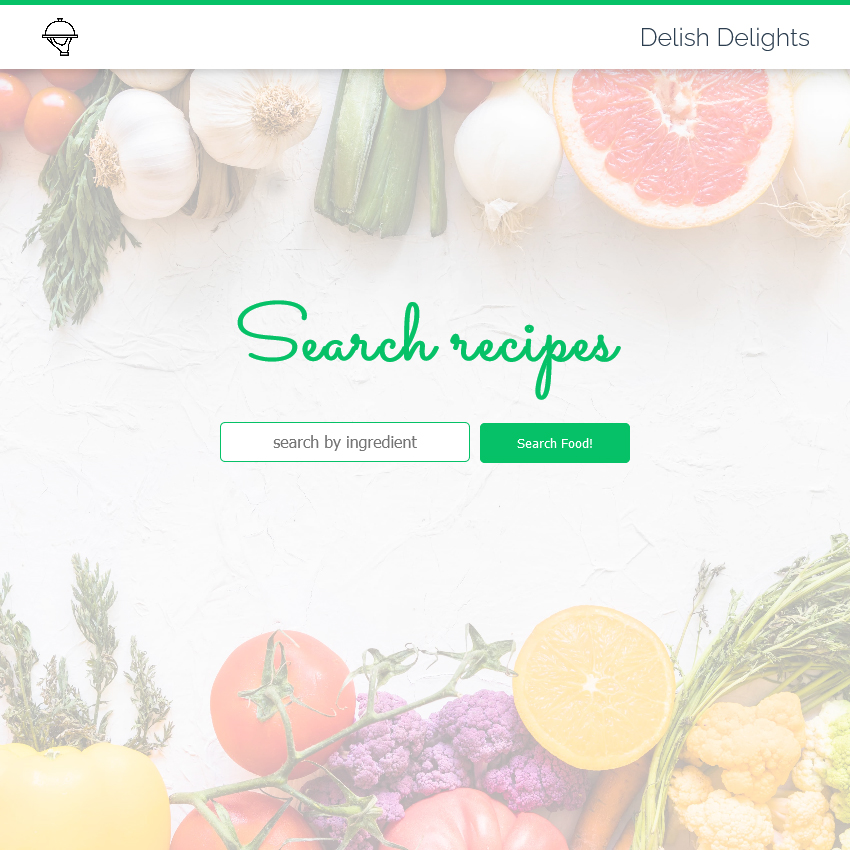
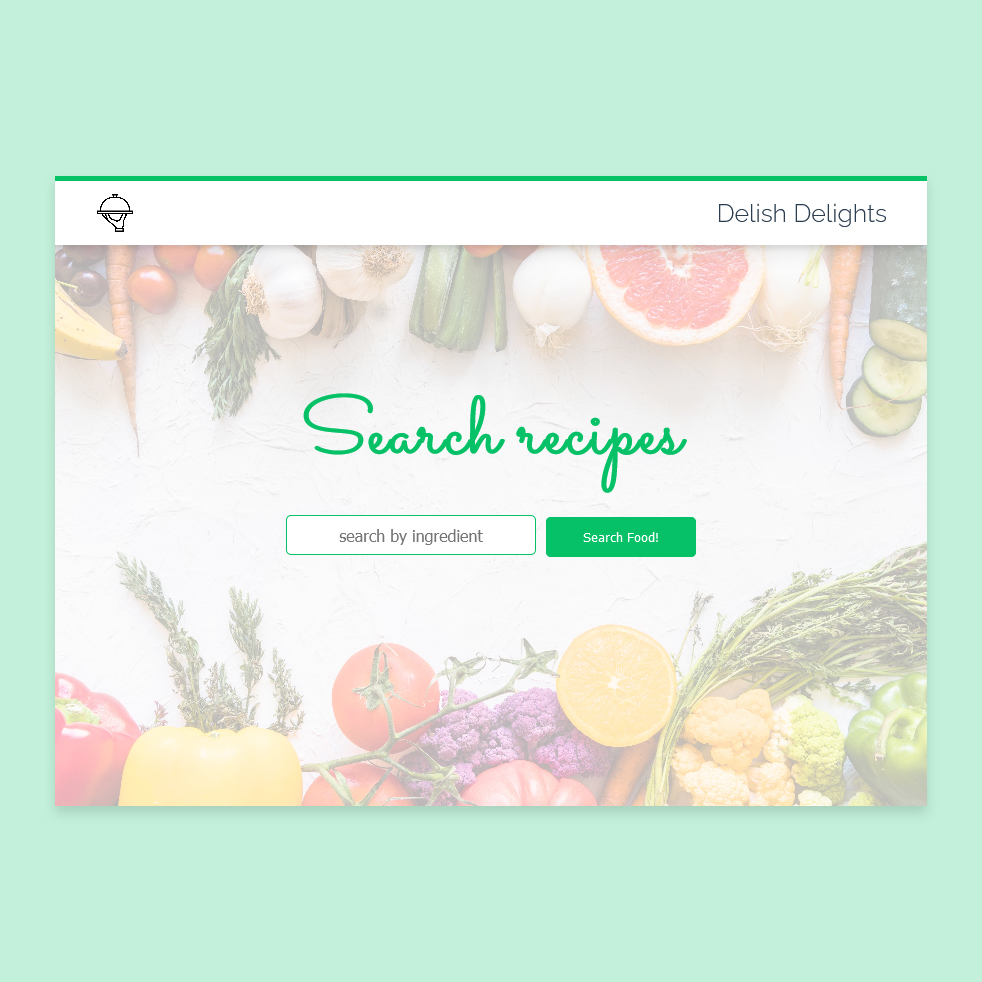
added new images to home page grid, some styling

diff --git a/pages/projects/[id].js b/pages/projects/[id].js
@@ -21,19 +21,23 @@ export const getStaticPaths = async () => {
 
 export default ({ project }) => (
   <div>
-    <h2>{project.name}</h2>
-    <p>{project.description}</p>
-    <div>
-      <Link href={project.linkLive} passHref>
-        <a target="_blank" rel="noreferrer">
-          {project.linkName}
-        </a>
-      </Link>
-      <Link href={project.linkGit} passHref>
-        <a target="_blank" rel="noreferrer">
-          Git
-        </a>
-      </Link>
+    <div className="project-header">
+      <div className="project-description">
+        <h2>{project.name}</h2>
+        <p>{project.description}</p>
+      </div>
+      <div className="project-links">
+        <Link href={project.linkLive} passHref>
+          <a target="_blank" rel="noreferrer">
+            {project.linkName}
+          </a>
+        </Link>
+        <Link href={project.linkGit} passHref>
+          <a target="_blank" rel="noreferrer">
+            Git
+          </a>
+        </Link>
+      </div>
     </div>
 
     <div className="pics">
@@ -45,32 +49,31 @@ export default ({ project }) => (
         src={project.mainImage}
       />
 
-        {project.detailImage.map((detailUrl) => {
-          return (
-            <>
-              <div key={detailUrl}>
-                <Image
-                  layout="responsive"
-                  objectFit="contain"
-                  width={300}
-                  height={300}
-                  alt="yes"
-                  src={detailUrl}
-                />
-              </div>
-            </>
-          );
-        })}
+      {project.detailImage.map((detailUrl) => {
+        return (
+          <>
+            <div key={detailUrl}>
+              <Image
+                layout="responsive"
+                objectFit="contain"
+                width={300}
+                height={300}
+                alt="yes"
+                src={detailUrl}
+              />
+            </div>
+          </>
+        );
+      })}
     </div>
 
-    <Link href="/" passHref>
-      <button>Back</button>
-    </Link>
-    <Link href={`/projects/[id]`} as={`/projects/${project.id - 1}`} passHref>
-      <button>{project.id > 1 ? "Previous" : ""}</button>
-    </Link>
-    <Link href={`/projects/[id]`} as={`/projects/${project.id + 1}`} passHref>
-      <button>{project.id < 8 ? "Next" : ""}</button>
-    </Link>
+    <div className="project-navbuttons">
+      <Link href={`/projects/[id]`} as={`/projects/${project.id - 1}`} passHref>
+        <button>{project.id > 1 ? "Previous" : ""}</button>
+      </Link>
+      <Link href={`/projects/[id]`} as={`/projects/${project.id + 1}`} passHref>
+        <button>{project.id < 8 ? "Next" : ""}</button>
+      </Link>
+    </div>
   </div>
 );

diff --git a/data.js b/data.js
@@ -29,8 +29,8 @@ export const projects = [
     linkLive: "https://react-to-do-app-mick.netlify.app/",
     linkName: "Live",
     linkGit: "https://github.com/MickDellaert/react-intro",
-    mainImage: "/Todo/todo-1.png",
-    detailImage: ["/Todo/todo-1.png"],
+    mainImage: "/Todo/todo-1.jpg",
+    detailImage: ["/Todo/todo-1.jpg"],
   },
   {
     id: 4,
@@ -40,7 +40,7 @@ export const projects = [
     linkLive: "https://delish-delights.netlify.app/",
     linkName: "Live",
     linkGit: "https://github.com/MickDellaert/vue-api",
-    mainImage: "/Delish/Delish-1.jpg",
+    mainImage: "/Delish/Delish-2.jpg",
     detailImage: ["/Delish/Delish-1.jpg"],
   },
   {
@@ -51,7 +51,7 @@ export const projects = [
     linkLive: "https://weather-app-mick.netlify.app/",
     linkName: "Live",
     linkGit: "https://github.com/MickDellaert/weather-app",
-    mainImage: "/Weather/Weather-1.jpg",
+    mainImage: "/Weather/weather-phone-mockup-3.jpg",
     detailImage: ["/Weather/Weather-1.jpg"],
   },
   {
@@ -74,12 +74,12 @@ export const projects = [
     linkName: "Live",
     linkGit:
       "https://github.com/MickDellaert/01-rock-paper-scissors-lizard-spock",
-    mainImage: "/RockPaper/Rock-1.jpg",
+    mainImage: "/RockPaper/Rock-ipad-mockup.jpg",
     detailImage: ["/RockPaper/Rock-1.jpg"],
   },
   {
     id: 8,
-    name: "To be defined",
+    name: "FLWR",
     description:
       "Lorem ipsum dolor sit amet, consectetur adipiscing elit, sed do eiusmod tempor incididunt ut labore et dolore magna aliqua.",
     linkLive: "",

diff --git a/styles/globals.css b/styles/globals.css
@@ -42,7 +42,7 @@ body {
   margin: 50px;
 }
 
-a{
+a {
   margin-left: 10px;
 }
 
@@ -61,4 +61,21 @@ a{
   position: unset !important;
   padding-top: 0 !important;
   background-color: aqua;
+} */
+
+.project-header {
+  display: flex;
+  justify-content: space-between;
+  align-items: flex-start;
+  margin-bottom: 20px;
+}
+
+.project-links {
+  margin-left: auto;
+  align-self: flex-end;
+}
+
+/* .project-navbuttons{
+  display: flex;
+  justify-content: space-between;
 } */
